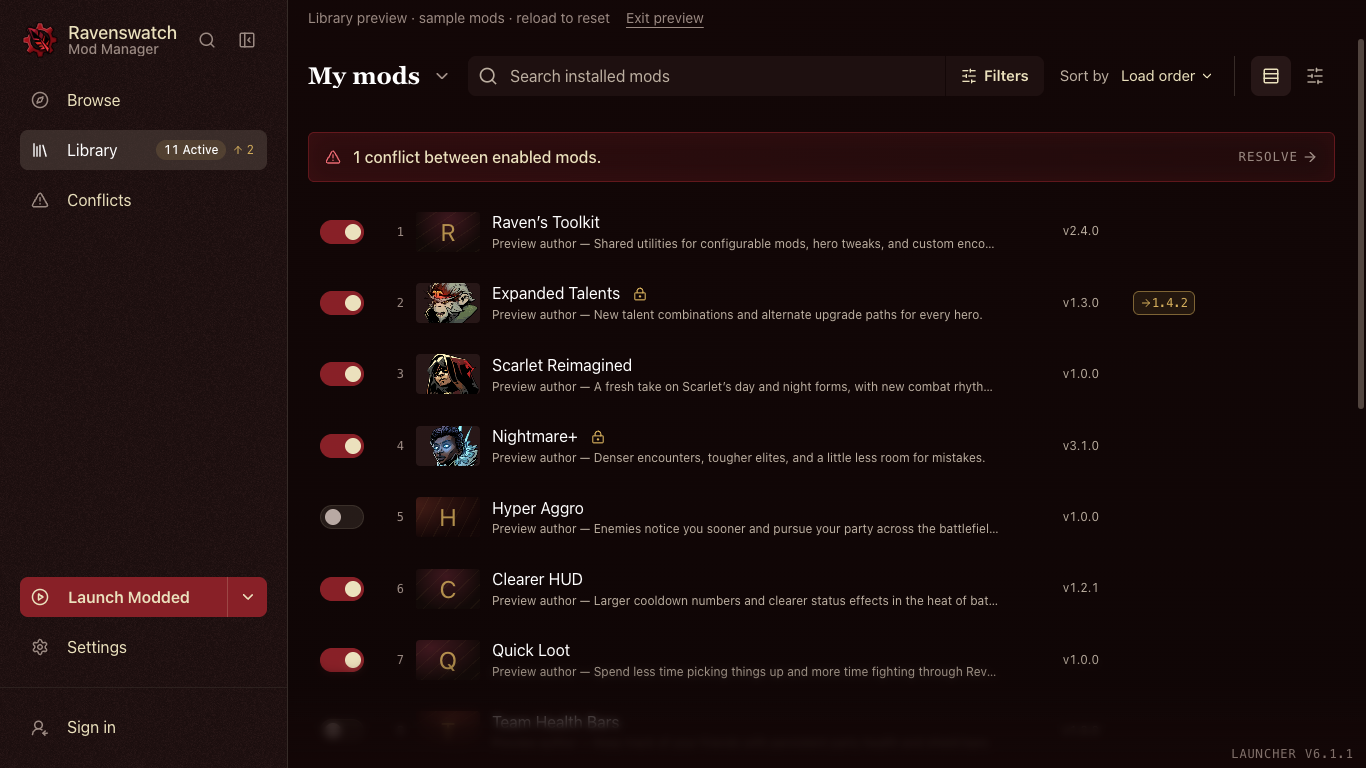
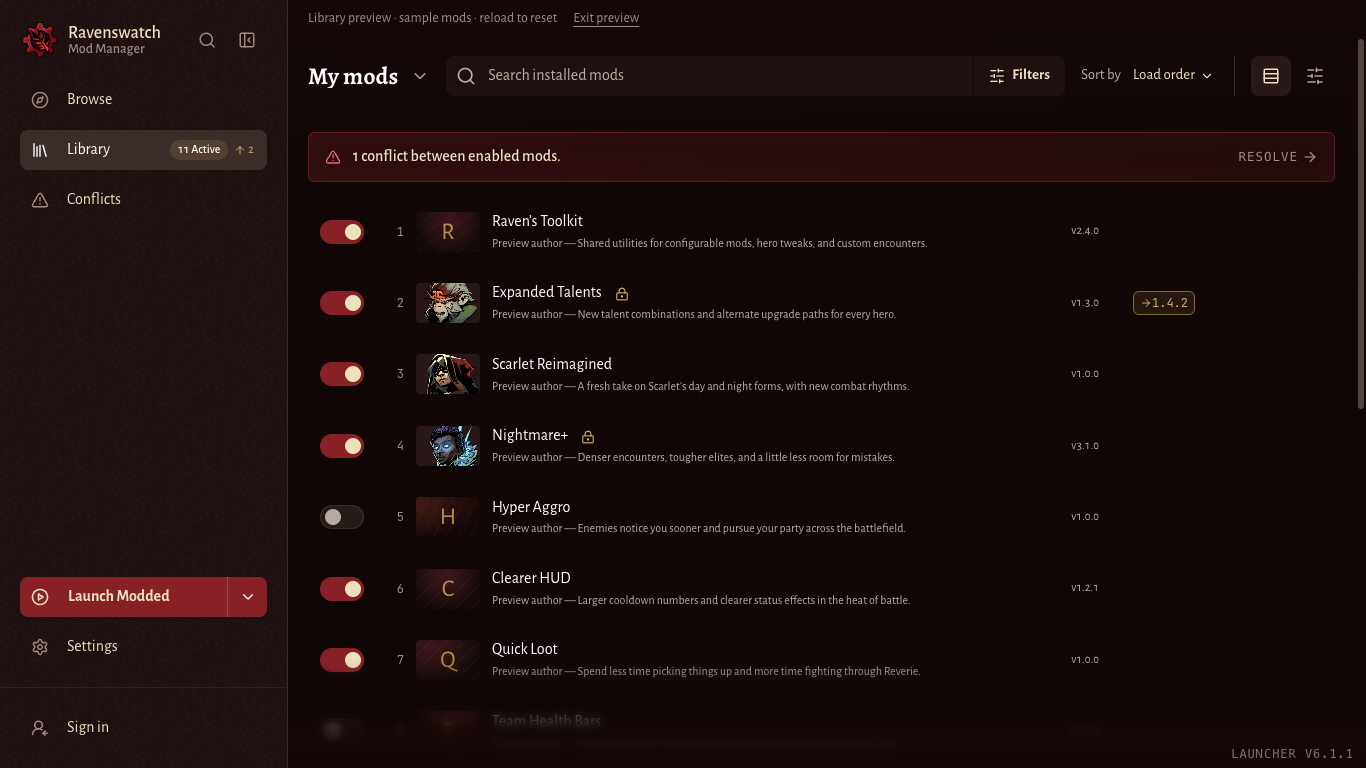
docs: capture window previews with bundled fonts

diff --git a/docs/pr-previews/first-launch-window-size/README.md b/docs/pr-previews/first-launch-window-size/README.md
@@ -5,7 +5,7 @@ After: this PR's default window dimensions.
 
 Both screenshots show the real desktop Library browser preview at
 `/?preview=library&view=list`, with the same fictional mods, English, default
-appearance, expanded sidebar, and scroll position. Both browser sessions have
+appearance and bundled fonts, expanded sidebar, and scroll position. Both browser sessions have
 no saved `rsmm.window.main` geometry.
 
 The viewport matches the corresponding `tauri.conf.json` window dimensions:
